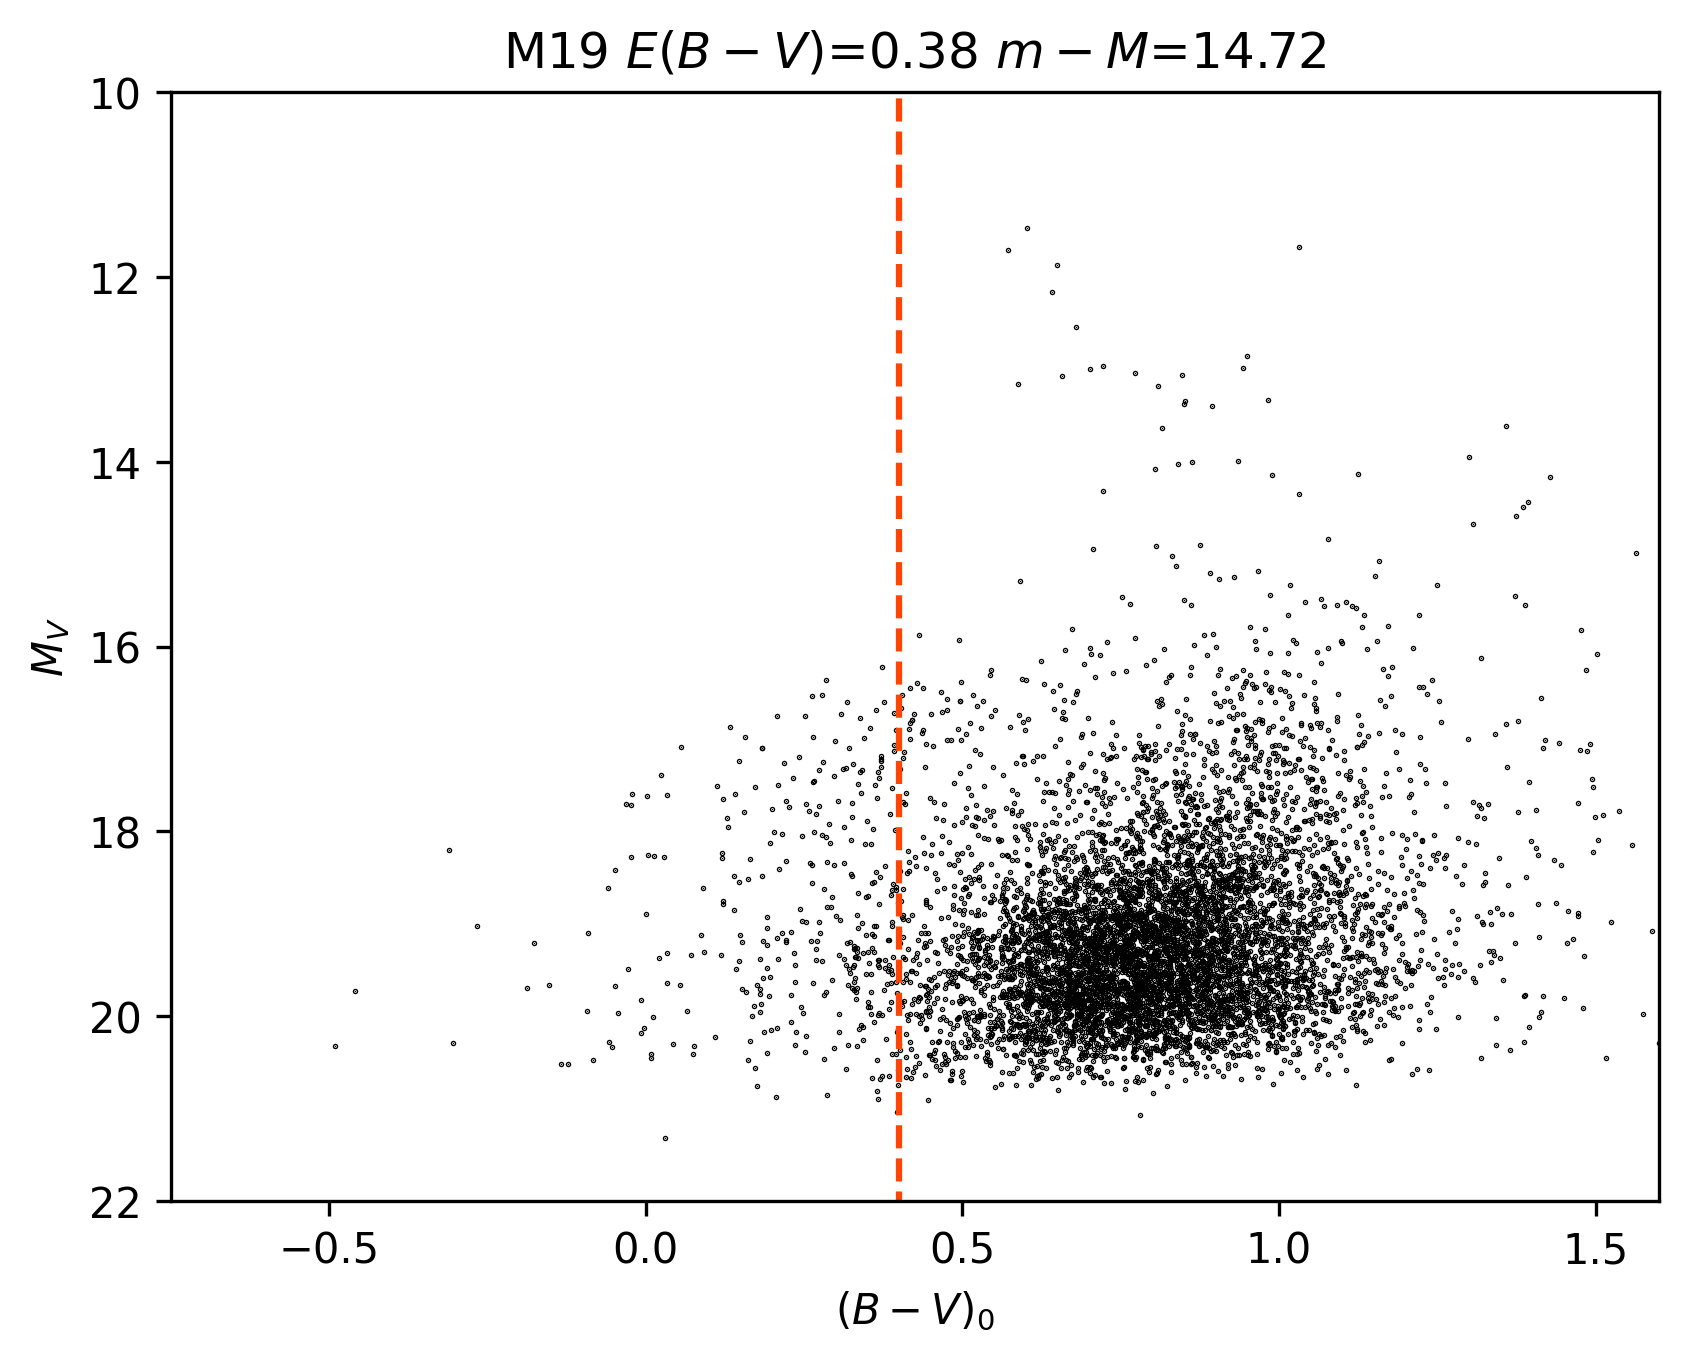
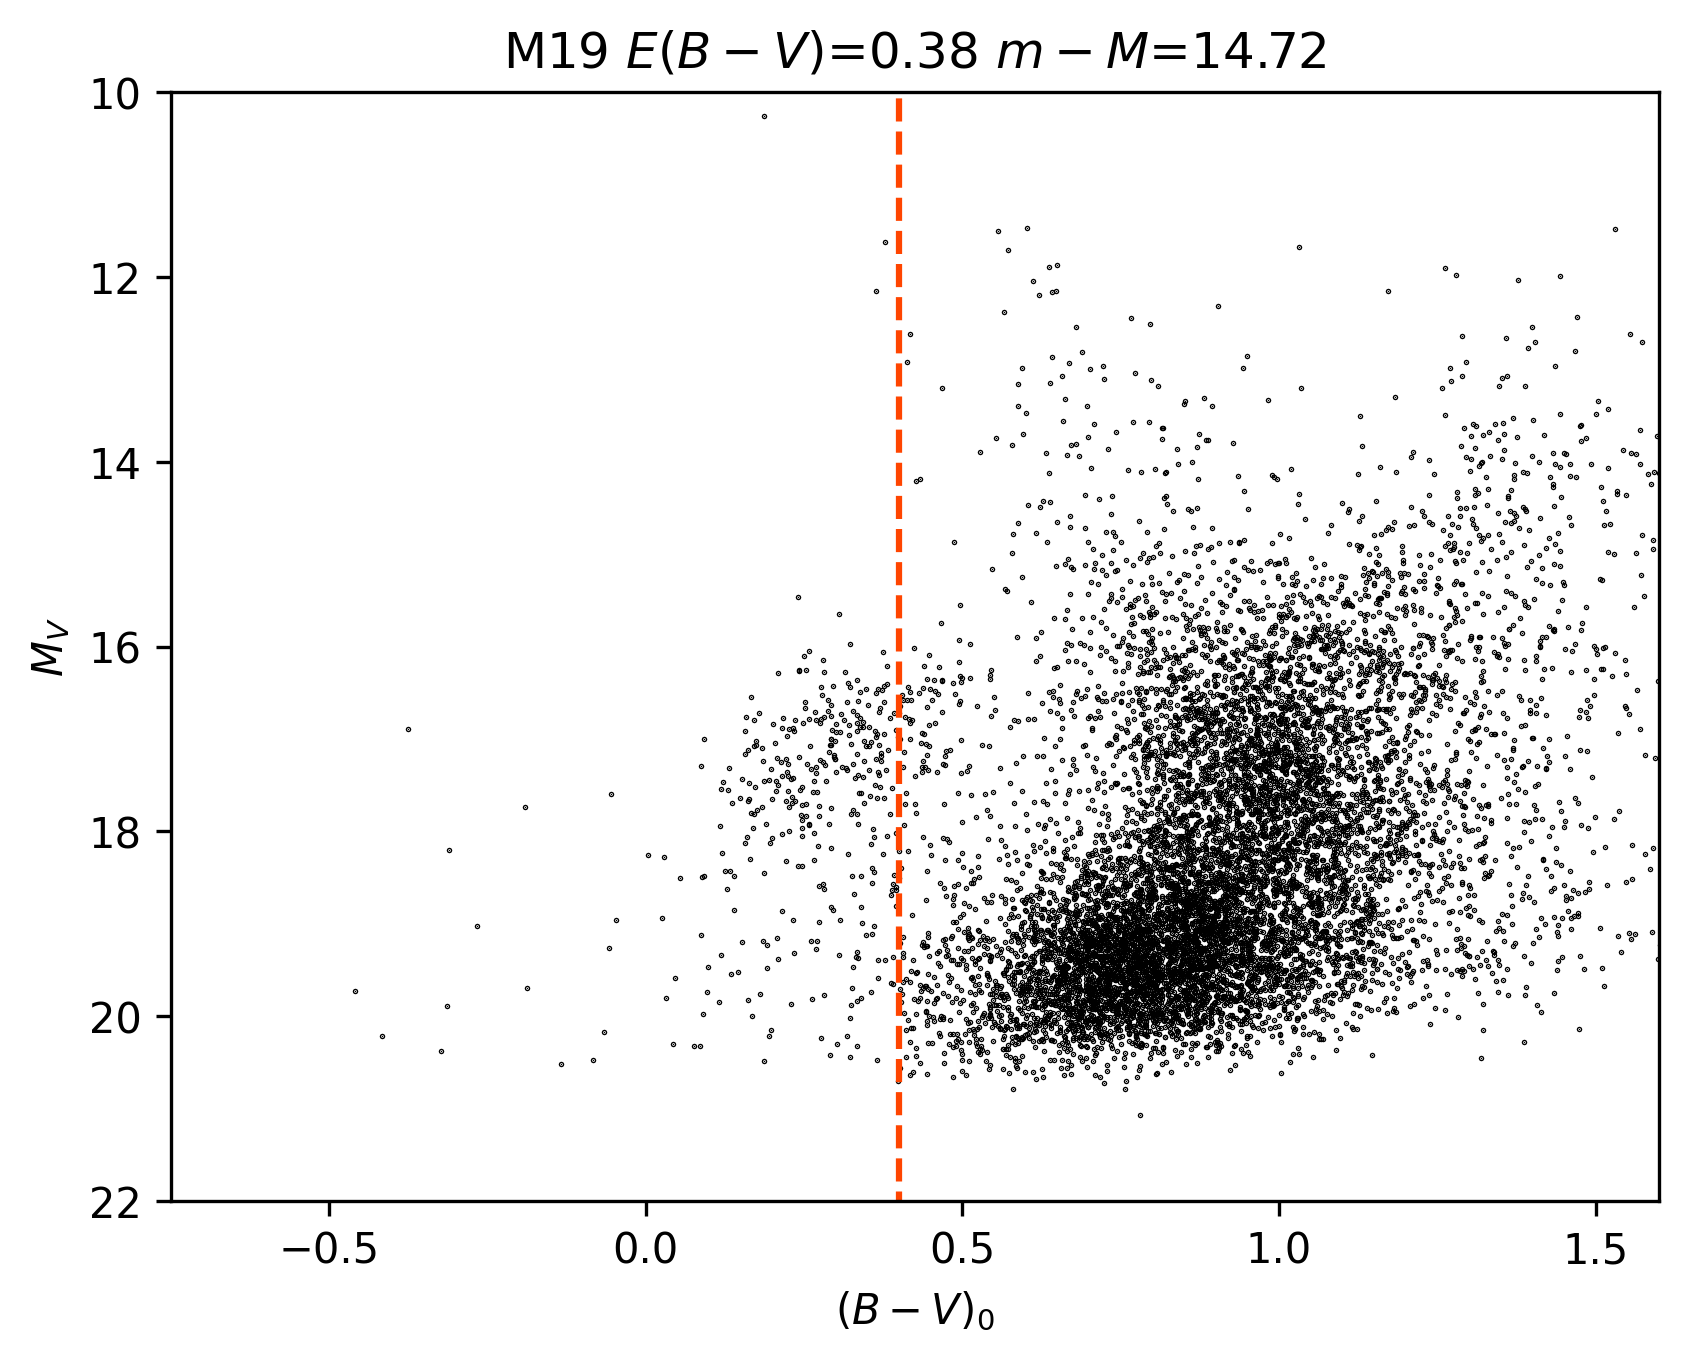
Updated trial.py code to enforce if name==main check.

Changed region(s): [[0.4313, 0.3084, 0.955, 0.8018], [0.4313, 0.7093, 0.4621, 0.7401]]

diff --git a/trial.py b/trial.py
@@ -15,7 +15,7 @@ import time
 #Last updated July 5 2023
 ## Explainer: Currently creating CMDs using unprocessed (dereddening), observed mag values. CandStar lists of both UBV
 ## and VBV are produced. HEB checking individuals.
-
+'''
 clusterName = input("Enter a cluster name:")
 clusterNameFile = ("{}.phot".format(clusterName))
 clusterGaiaFile = ("NewCoor/{}_new_coor.dat".format(clusterName))
@@ -95,6 +95,7 @@ parallaxErrorGaia = pd.DataFrame(dat4["parallax_error"][indexKeep])
 dat5 = pd.concat([PMRA,PMDEC,oids,parallaxGaia, parallaxErrorGaia],axis="columns")
 #dat5 = dat4[["pmra","pmdec"]][indexKeep].copy()
 #print(dat4)
+'''
 '''
 clusters = DBSCAN(eps=0.7, min_samples=3).fit(dat5)
 plt.figure(figsize=(8,6))
@@ -250,8 +251,8 @@ def DBSCANPlots(bv,v,b,u,vi,ub,ubbv,clusterName,cond,dist,raClust,decClust,c,r_c
     # #ax.plot(xplot,model_f(xplot,*popt),'r--')
 
     #HB Model Equation
-    y2 = model_f(bv[indAll], -3.74, 7.03, 6.83, -19.86, 8.98, -1.51, 0.35,0.05)
-    y_u = model_f(bv[indAll], -3.74, 7.03, 6.83, -19.86, 8.98, -1.51, 1.65, 0.6)
+    y2 = model_f(bv[indAll], -3.74, 7.03, 6.83, -19.86, 8.98, -1.51, 0.35,0.2)
+    y_u = model_f(bv[indAll], -3.74, 7.03, 6.83, -19.86, 8.98, -1.51, 1.65, 0.8)
 
     #y2 = model_f(bv[indAll], -3.74, 7.03, 6.83, -19.86, 8.98, -1.51, 0.83)
     UVBrightCond = np.logical_and(v[indAll]<y2,bv[indAll]<-0.05)
@@ -344,7 +345,7 @@ def DBSCANPlots(bv,v,b,u,vi,ub,ubbv,clusterName,cond,dist,raClust,decClust,c,r_c
     xplot = np.linspace(bv[indAll].min(), bv[indAll].max(), len(bv[indAll]))
     # x_array = np.linspace(-0.6,1.3,100)
     # y = model_f(xplot, -3.74, 7.03, 6.83, -19.86, 8.98, -1.51, 0.35, -0.15)
-    y = model_f(xplot, -3.74, 7.03, 6.83, -19.86, 8.98, -1.51, 0.35,0.05)
+    y = model_f(xplot, -3.74, 7.03, 6.83, -19.86, 8.98, -1.51, 0.35,0.2)
     ax.plot(xplot, y, "r-")
     ax.vlines(x=-0.05, ymin=-4, ymax=5)
     # ax.plot(xplot,model_f(xplot,*popt),'r--')
@@ -420,7 +421,7 @@ def DBSCANPlots(bv,v,b,u,vi,ub,ubbv,clusterName,cond,dist,raClust,decClust,c,r_c
     #y = model_f(xplot, -3.74, 7.03, 6.83, -19.86, 8.98, -1.51, 2.1)
     xplot = np.linspace(bv[indAll].min(), bv[indAll].max(), len(bv[indAll]))
     # x_array = np.linspace(-0.6,1.3,100)
-    y = model_f(xplot, -3.74, 7.03, 6.83, -19.86, 8.98, -1.51, 1.65,0.6)
+    y = model_f(xplot, -3.74, 7.03, 6.83, -19.86, 8.98, -1.51, 1.65,0.8)
     # y = model_f(xplot, -3.74, 7.03, 6.83, -19.86, 8.98, -1.51, 0.83)
     ax.plot(xplot, y, "r-")
     ax.vlines(x=-0.05, ymin=-4, ymax=5)
@@ -725,4 +726,93 @@ def main():
 
 
 if __name__ == "__main__":
+    clusterName = input("Enter a cluster name:")
+    clusterNameFile = ("{}.phot".format(clusterName))
+    clusterGaiaFile = ("NewCoor/{}_new_coor.dat".format(clusterName))
+    clusterGaiaResults = ("{}.csv".format(clusterName))
+    # clusterNameDict = clusterName.replace()
+    # breakpoint()
+    # dist = float(input("Enter a distance:"))
+    dist = float(locals()[clusterName]['dist'])
+    # ebv = float(input("Enter a E(B-V) value:"))
+    ebv = float(locals()[clusterName]['ebv'])
+    # raClust = str(input("Enter the RA with spaces:"))
+    raClust = str(locals()[clusterName]['ra'])
+    # decClust = str(input("Enter the Dec with spaces:"))
+    decClust = str(locals()[clusterName]['dec'])
+    # c = float(input("Enter King-model central concentration value:"))
+    c = float(locals()[clusterName]['c'])
+    # r_c = float(input("Enter a core radius in arcminutes:"))
+    r_c = float(locals()[clusterName]['r_c'])
+
+    # breakpoint()
+
+    dat = Table.read(clusterNameFile, format="ascii")
+    dat2 = Table.read(clusterGaiaFile, format="ascii")
+    # print(dat2)
+    dat4 = pd.read_csv("GAIAData/{}".format(clusterGaiaResults))
+    dat4 = dat4.fillna(1000)
+
+    ext = "testing123"
+
+    unID, indexes, inverse, counts = np.unique(dat4[f"{clusterName.lower()}_oid"],
+                                               return_index=True,
+                                               return_counts=True,
+                                               return_inverse=True)
+
+    # angSepArray = []
+
+    index2 = np.where(counts > 1)[0]
+    # breakpoint()
+    oids = dat4[f"{clusterName.lower()}_oid"][index2]
+    oids = np.asarray(oids)
+    clusterOids = np.asarray(dat4[f"{clusterName.lower()}_oid"])
+    angSep = np.asarray(dat4["ang_sep"])
+    parallaxArray = np.asarray(dat4["parallax"])
+    angSepUniq, parUniq = angSep[indexes], parallaxArray[indexes]
+
+    indexKeep = np.zeros_like(counts)
+
+    for i, oid in enumerate(unID):
+        indexi = indexes[i]
+        if counts[i] > 1:
+            angList, indList = [], []
+            for j in range(counts[i]):
+                if parUniq[i + j] > 90:
+                    continue
+                else:
+                    try:
+                        angList.append(angSepUniq[i + j])
+                        indList.append(indexi + j)
+                    except:
+                        pass
+            # breakpoint()
+            if len(angList) == 0:
+                indexKeep[i] = indexi
+            else:
+                angList, indList = np.array(angList), np.array(indList)
+                indexKeep[i] = indList[np.argmin(angList)]
+        else:
+            indexKeep[i] = indexi
+
+    # breakpoint()
+    # dat5 = dat4[["pmra","pmdec"]].copy()
+    PMRA = pd.DataFrame(dat4["pmra"][indexKeep])
+    PMDEC = pd.DataFrame(dat4["pmdec"][indexKeep])
+    oids = pd.DataFrame(dat4[f"{clusterName.lower()}_oid"][indexKeep])
+    parallaxGaia = pd.DataFrame(dat4["parallax"][indexKeep])
+    parallaxErrorGaia = pd.DataFrame(dat4["parallax_error"][indexKeep])
+    dat5 = pd.concat([PMRA, PMDEC, oids, parallaxGaia, parallaxErrorGaia], axis="columns")
+    # dat5 = dat4[["pmra","pmdec"]][indexKeep].copy()
+    # print(dat4)
+    '''
+    clusters = DBSCAN(eps=0.7, min_samples=3).fit(dat5)
+    plt.figure(figsize=(8,6))
+    p = sns.scatterplot(data=dat5, x="pmra", y="pmdec", hue=clusters.labels_, legend="brief", palette="deep")
+    sns.move_legend(p, "upper center", bbox_to_anchor=(0.15,0.42), fontsize = "x-small", ncol=3, title='Clusters')
+    plt.title("Proper Motion Clustering")
+    plt.show()
+    '''
+    # print(dat)
+
     main()
